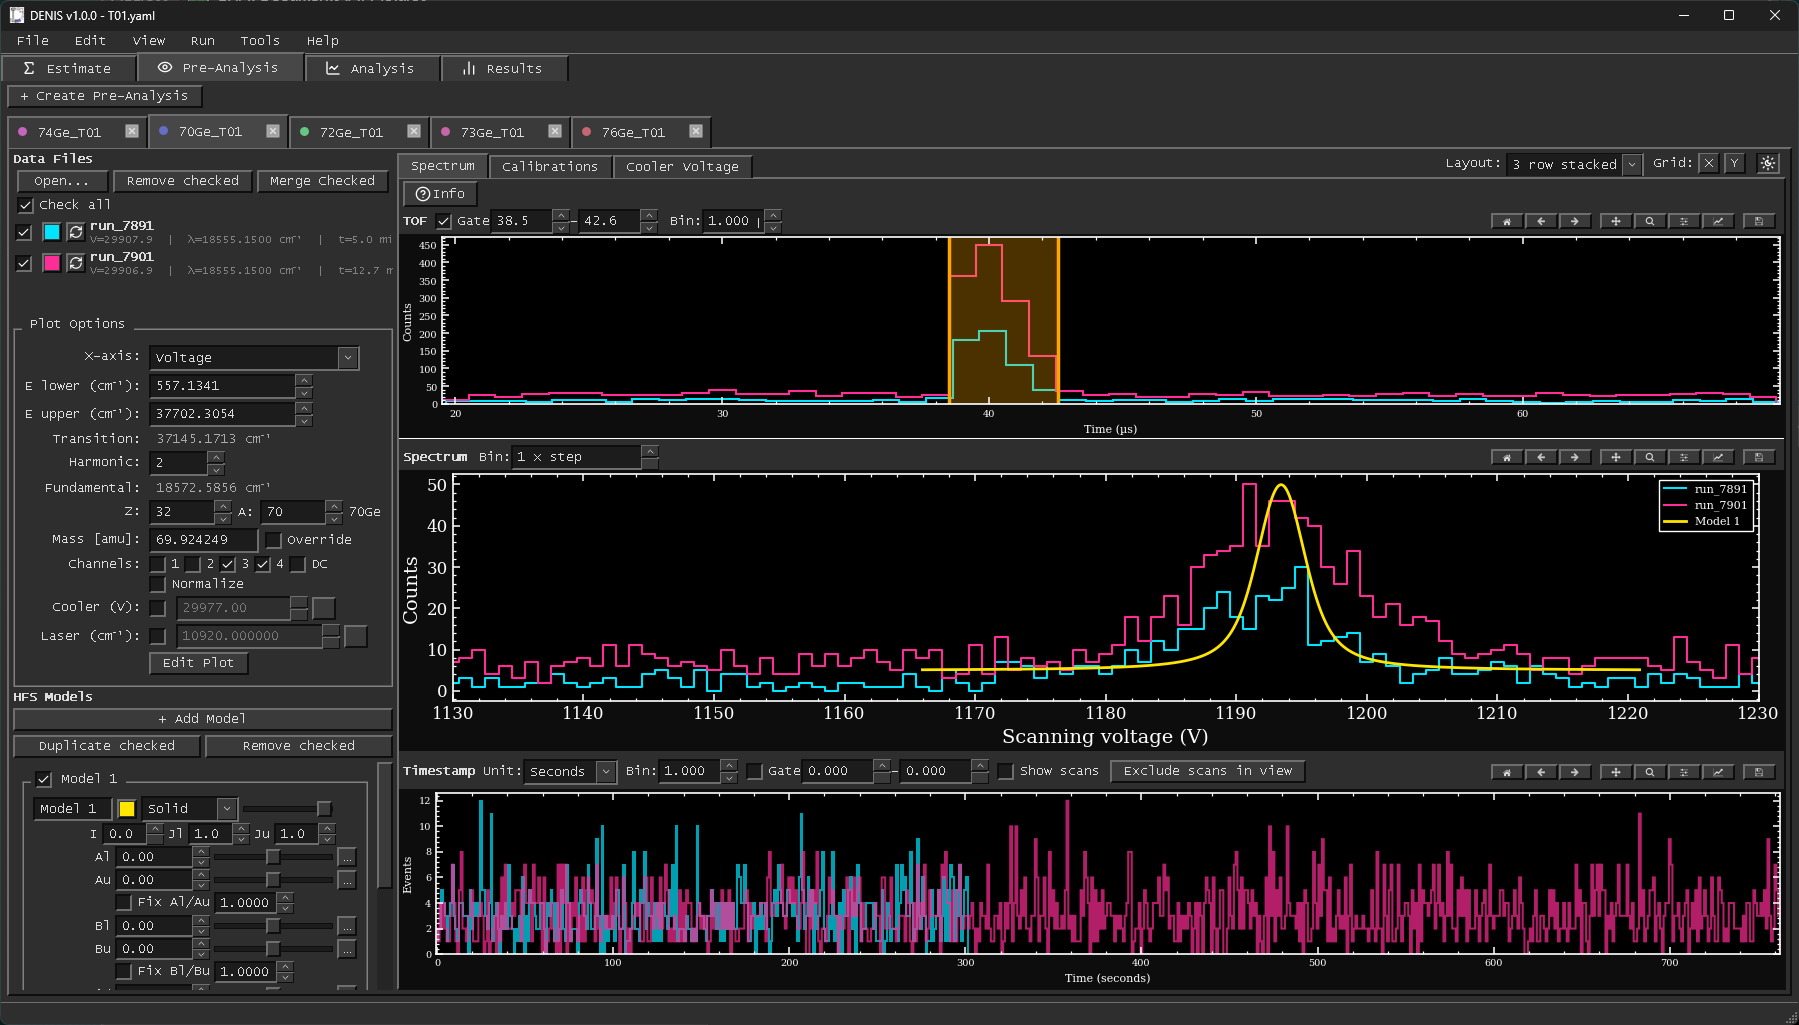
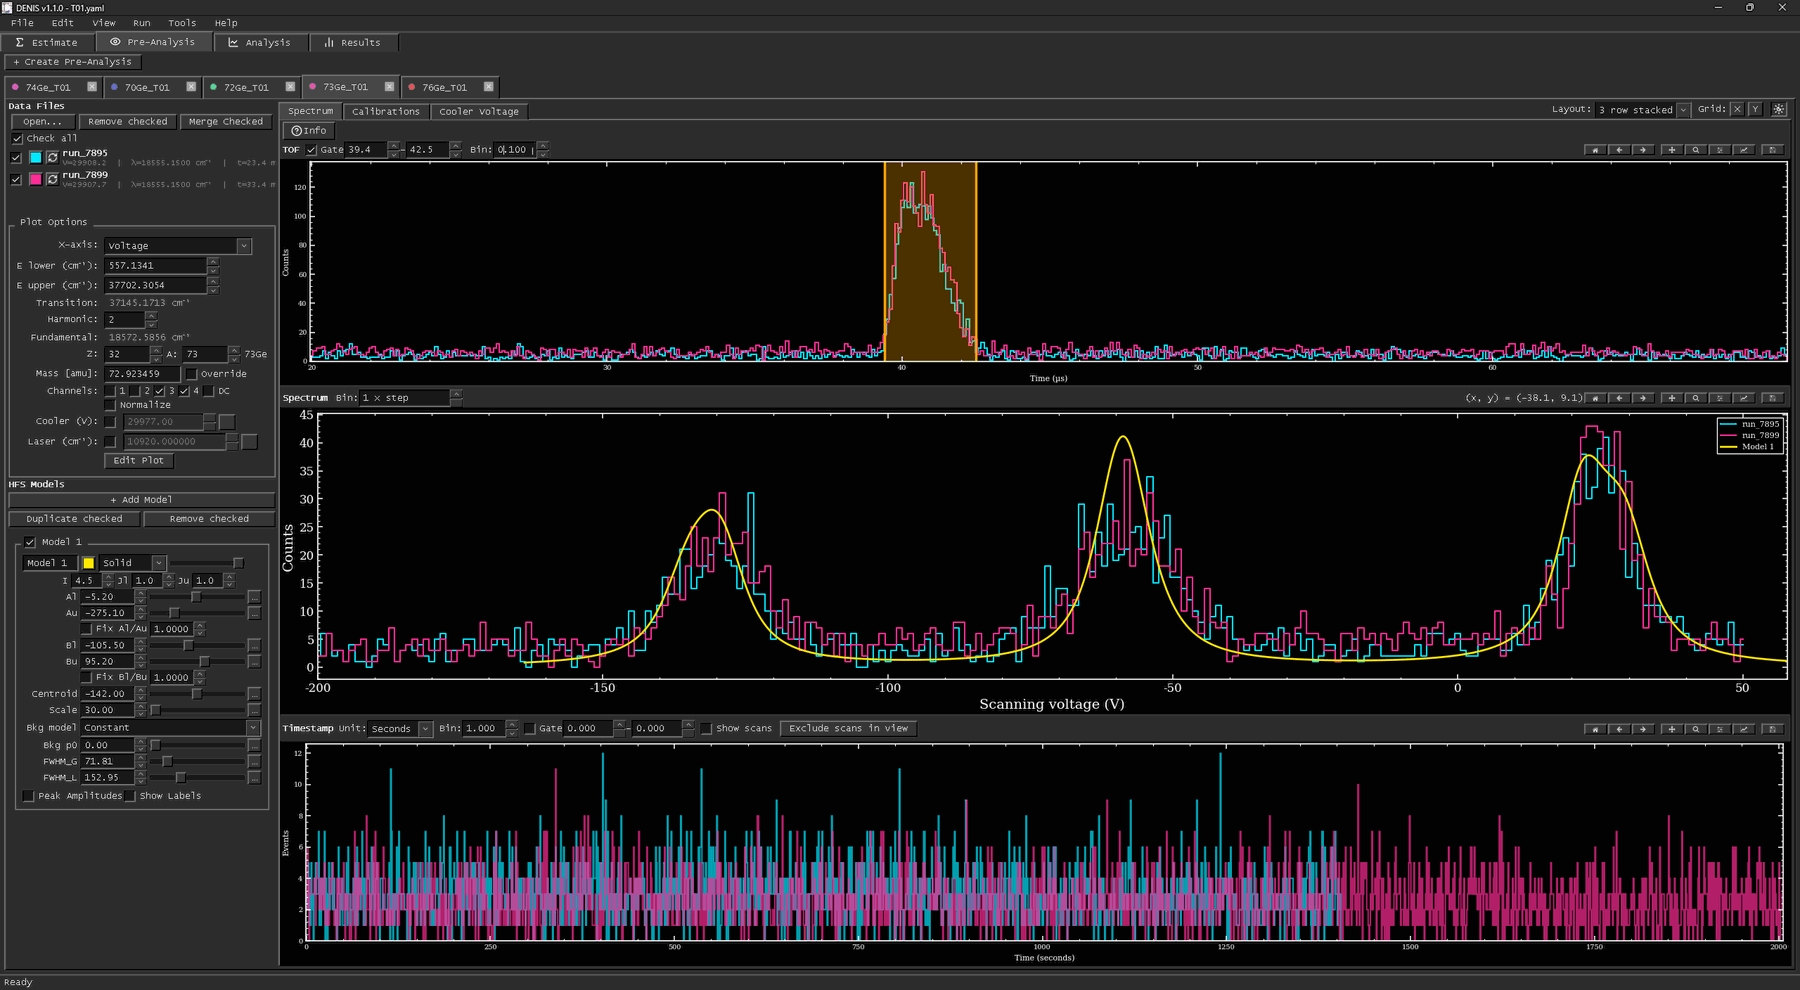
DENIS 1.1 post: new pre-analysis figure and a Mini DENIS section

diff --git a/updates/2026-09-27-denis-1-1/update.md b/updates/2026-09-27-denis-1-1/update.md
@@ -6,7 +6,7 @@ description: "A new version of DENIS, my desktop toolkit for analysing collinear
 
 A new version of **[DENIS](https://github.com/ardakayaalp/DENIS)** is out. DENIS (*Doppler Estimation and Numerical Inference for Spectroscopy*) is the desktop toolkit I develop for collinear laser spectroscopy (CLS). It covers the whole chain in one place: beam-time estimation, pre-analysis of the raw runs (@fig:preanalysis), hyperfine fitting with satlas2, isotope shifts and a browser for the results.
 
-![Pre-analysis of two runs: the time-of-flight gate (top), the spectrum with a hyperfine model overlaid (middle) and the counts over time (bottom).](figures/pre-analysis.png){#fig:preanalysis}
+![Pre-analysis of two ⁷³Ge runs: the time-of-flight gate (top), the spectrum with a hyperfine model overlaid (middle) and the counts over time (bottom).](figures/pre-analysis.png){#fig:preanalysis}
 
 ## New in 1.1 {#sec:new}
 
@@ -20,6 +20,16 @@ Sessions saved with 1.0 open unchanged. Fits are built from blocks (@fig:pipelin
 ![The block-based fitting pipeline: source, model, fitter and output.](figures/fitting-pipeline.png){#fig:pipeline}
 
 ![Gaussian-process correction of the reference centroid drift, with 1σ and 2σ bands.](figures/gp-correction.png){#fig:gp}
+
+## Mini DENIS in the browser {#sec:mini}
+
+To try it without installing anything, open **[Mini DENIS](/mini-denis/){:target="_blank" rel="noopener"}**. It runs the Estimate and Pre-Analysis tabs right in your browser, using the same DENIS Python code, and your files never leave your computer.
+
+- **Estimate:** plan a beam time with the desktop estimator: spectra, peak list and measuring times, with the plots and results to download.
+- **Pre-Analysis:** open ASDF runs, set time-of-flight and time gates, overlay hyperfine models, check the voltage calibrations and the cooler stability, and save the plots.
+- **Sessions:** session files move freely between Mini DENIS and the desktop app, in both directions.
+
+It works on phones and tablets too. Fitting, isotope shifts and the results browser stay in the full desktop version (@sec:get).
 
 ## Get it {#sec:get}
 
